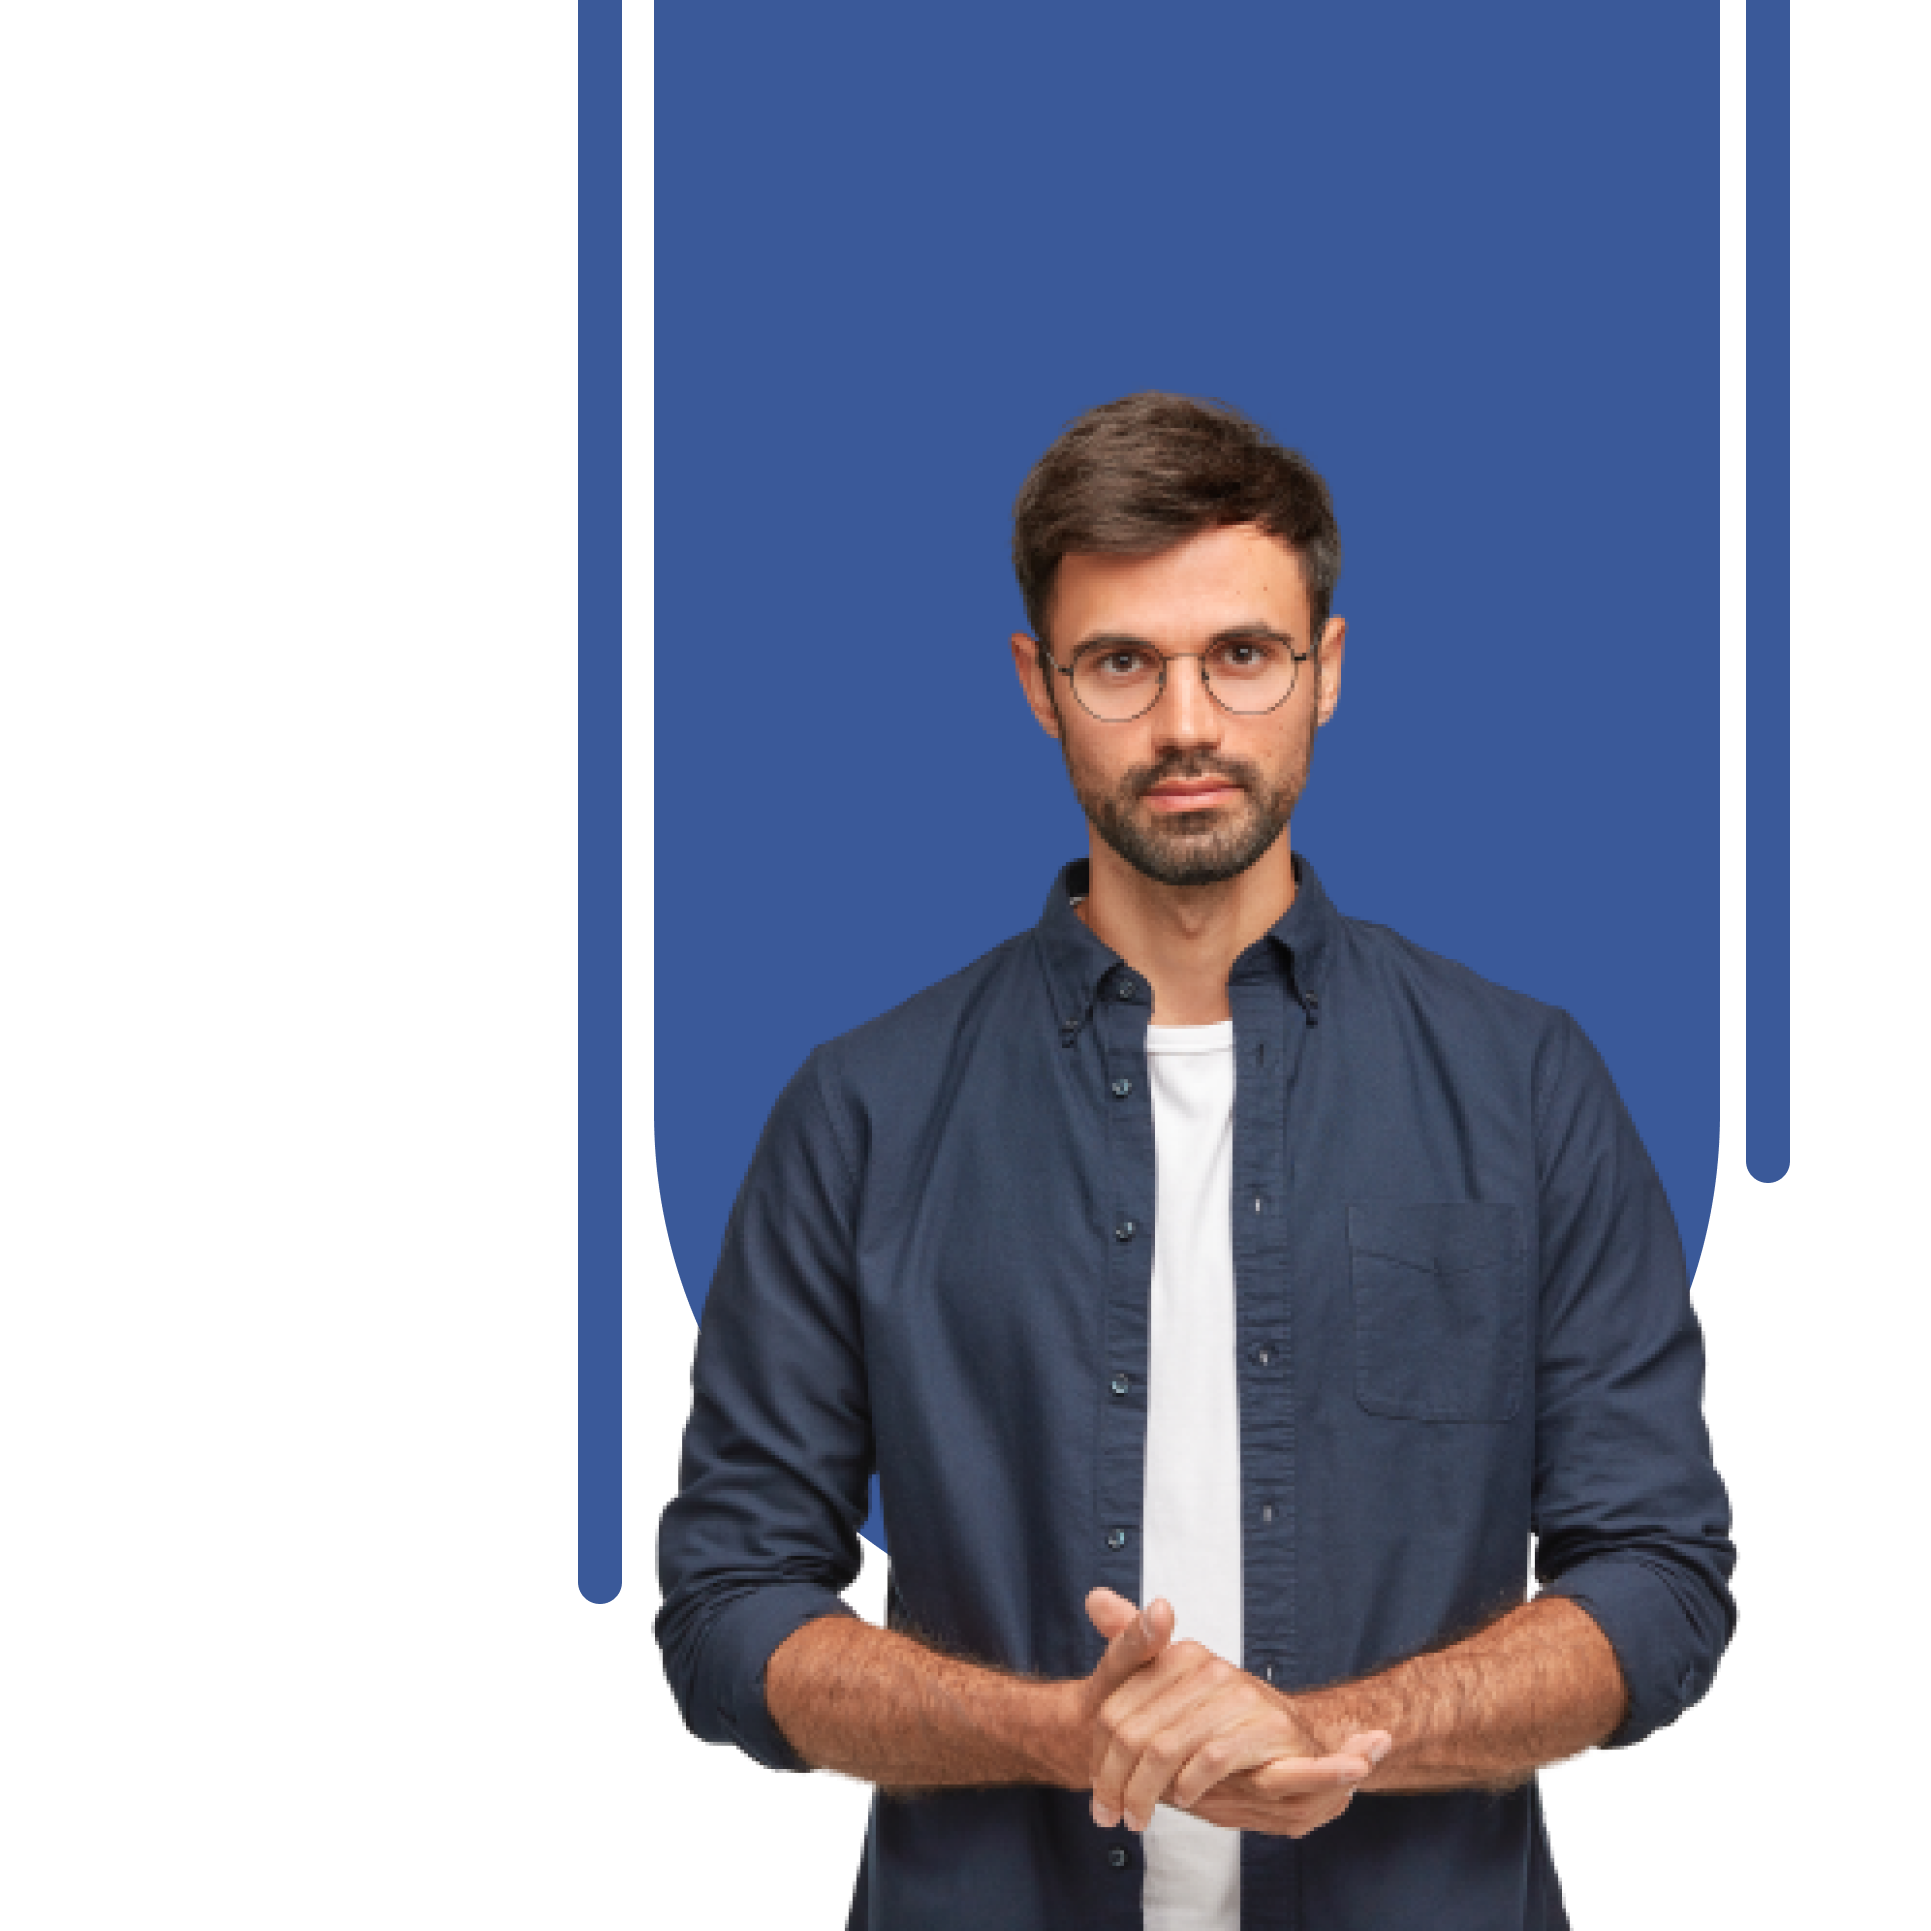
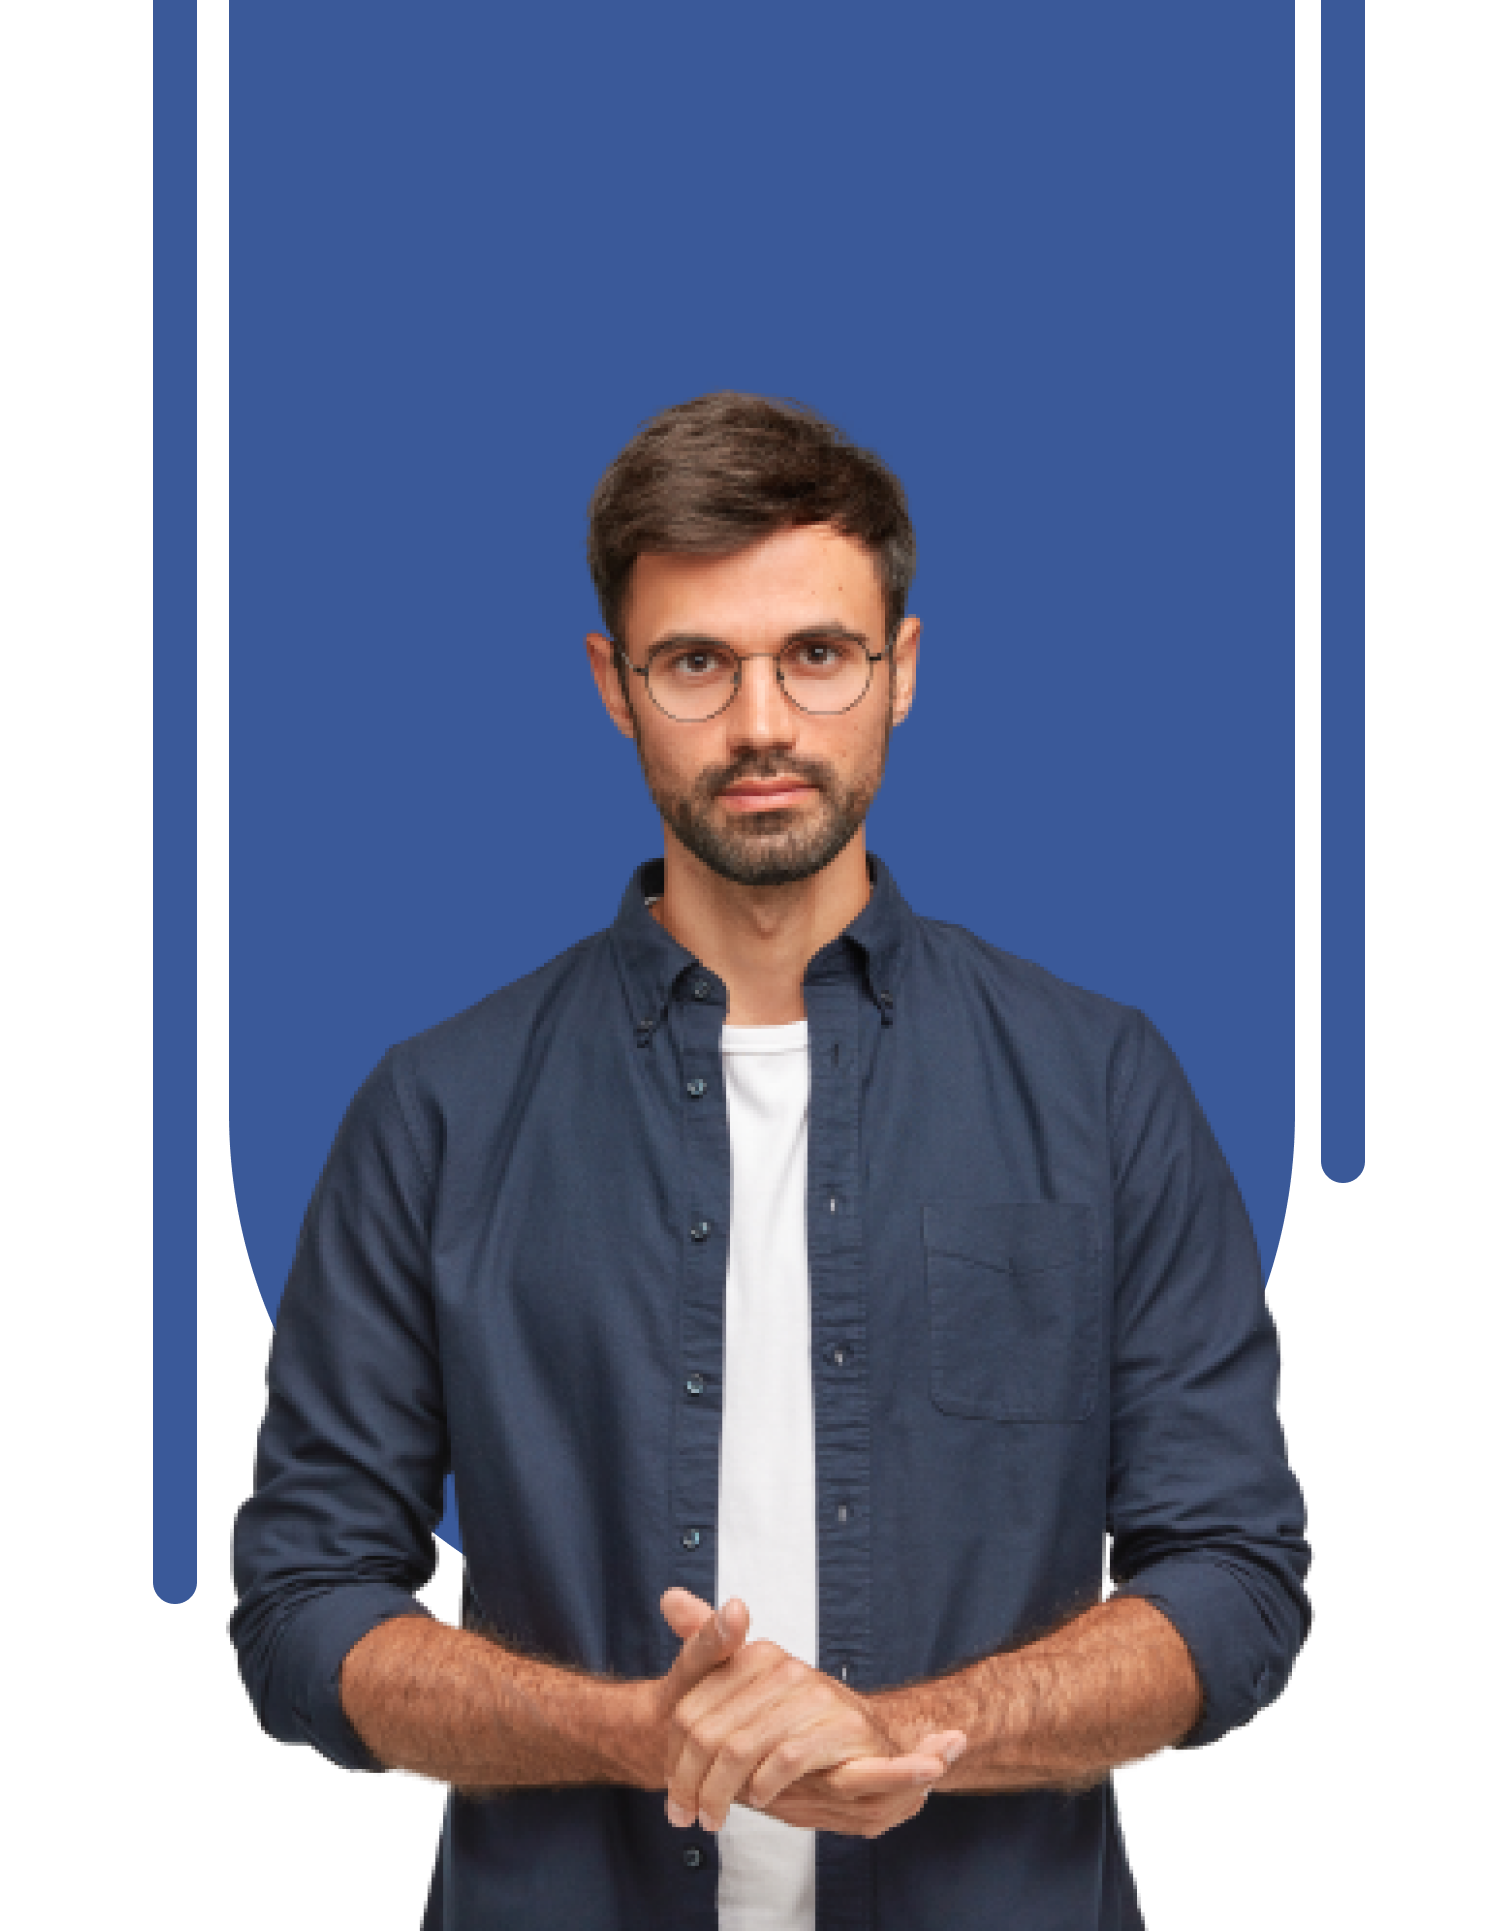
update sidebar dashboard + crop img landing page - update from laptop

diff --git a/dashboard-jadwal-pertanyaan.html b/dashboard-jadwal-pertanyaan.html
@@ -37,19 +37,19 @@
                         <ul class="nav nav-pills flex-column mb-sm-auto mb-0 align-items-center align-items-sm-start"
                             id="menu">
                             <li class="nav-item">
-                                <a href="dashboard.html" class="nav-link d-flex justify-content-center rounded-3 px-4 py-3"
-                                    style="background: #3A5999;">
+                                <a href="dashboard.html" class="nav-link d-flex justify-content-center rounded-3 py-3"
+                                    style="background: #3A5999; width: 180px;">
                                     <img src="assets/dashboard icon.png" alt="imgae" class="img-fluid me-2" width="20">
                                     <span class="text-white">Dashboard</span>
                                 </a>
                             </li>
                             <li class="my-2">
-                                <a href="dashboard-jadwal-pertanyaan.html" class="nav-link rounded-3 py-3" style="background: #3A5999;">
+                                <a href="dashboard-jadwal-pertanyaan.html" class="nav-link rounded-3 py-3 text-center" style="background: #3A5999; width: 180px;">
                                     <span class="text-white">Jadwal interview</span>
                                 </a>
                             </li>
                             <li>
-                                <a href="dashboard-list-pertanyaan.html" class="nav-link rounded-3 px-3 py-3" style="background: #3A5999;">
+                                <a href="dashboard-list-pertanyaan.html" class="nav-link rounded-3 py-3 text-center" style="background: #3A5999; width: 180px;">
                                     <span class="text-white">List pertanyaan</span>
                                 </a>
                             </li>

diff --git a/dashboard-list-pertanyaan.html b/dashboard-list-pertanyaan.html
@@ -37,19 +37,19 @@
                         <ul class="nav nav-pills flex-column mb-sm-auto mb-0 align-items-center align-items-sm-start"
                             id="menu">
                             <li class="nav-item">
-                                <a href="dashboard.html" class="nav-link d-flex justify-content-center rounded-3 px-4 py-3"
-                                    style="background: #3A5999;">
+                                <a href="dashboard.html" class="nav-link d-flex justify-content-center rounded-3 py-3"
+                                    style="background: #3A5999; width: 180px;">
                                     <img src="assets/dashboard icon.png" alt="imgae" class="img-fluid me-2" width="20">
                                     <span class="text-white">Dashboard</span>
                                 </a>
                             </li>
                             <li class="my-2">
-                                <a href="dashboard-jadwal-pertanyaan.html" class="nav-link rounded-3 py-3" style="background: #3A5999;">
+                                <a href="dashboard-jadwal-pertanyaan.html" class="nav-link rounded-3 py-3 text-center" style="background: #3A5999; width: 180px;">
                                     <span class="text-white">Jadwal interview</span>
                                 </a>
                             </li>
                             <li>
-                                <a href="dashboard-list-pertanyaan.html" class="nav-link rounded-3 px-3 py-3" style="background: #3A5999;">
+                                <a href="dashboard-list-pertanyaan.html" class="nav-link rounded-3 py-3 text-center" style="background: #3A5999; width: 180px;">
                                     <span class="text-white">List pertanyaan</span>
                                 </a>
                             </li>

diff --git a/dashboard.html b/dashboard.html
@@ -37,19 +37,19 @@
                         <ul class="nav nav-pills flex-column mb-sm-auto mb-0 align-items-center align-items-sm-start"
                             id="menu">
                             <li class="nav-item">
-                                <a href="dashboard.html" class="nav-link d-flex justify-content-center rounded-3 px-4 py-3"
-                                    style="background: #3A5999;">
+                                <a href="dashboard.html" class="nav-link d-flex justify-content-center rounded-3 py-3"
+                                    style="background: #3A5999; width: 180px;">
                                     <img src="assets/dashboard icon.png" alt="imgae" class="img-fluid me-2" width="20">
                                     <span class="text-white">Dashboard</span>
                                 </a>
                             </li>
                             <li class="my-2">
-                                <a href="dashboard-jadwal-pertanyaan.html" class="nav-link rounded-3 py-3" style="background: #3A5999;">
+                                <a href="dashboard-jadwal-pertanyaan.html" class="nav-link rounded-3 py-3 text-center" style="background: #3A5999; width: 180px;">
                                     <span class="text-white">Jadwal interview</span>
                                 </a>
                             </li>
                             <li>
-                                <a href="dashboard-list-pertanyaan.html" class="nav-link rounded-3 px-3 py-3" style="background: #3A5999;">
+                                <a href="dashboard-list-pertanyaan.html" class="nav-link rounded-3 py-3 text-center" style="background: #3A5999; width: 180px;">
                                     <span class="text-white">List pertanyaan</span>
                                 </a>
                             </li>

diff --git a/login.html b/login.html
@@ -35,12 +35,13 @@
                         <div class="row text-center mb-4">
                             <h3 class="fw-bold">Log in to lorem</h1>
                         </div>
-                        <form action="#" method="post">
+                        <form action="dashboard.html" method="post">
                             <div class="row text-center">
                                 <input type="email" placeholder="Enter email"
                                     class="form-control border border-2 rounded-4 px-4 py-3 mb-2 w-100" required>
-                                <input type="submit" value="Continue"
-                                    class="text-white border rounded-4 px-5 py-3 w-100" style="background: #1FCC26;">
+                                <a href="dashboard.html" class="text-white border rounded-4 px-5 py-3 w-100 text-decoration-none" style="background: #1FCC26;">Continue</a>
+                                <!-- <input type="submit" value="Continue"
+                                    class="text-white border rounded-4 px-5 py-3 w-100" style="background: #1FCC26;"> -->
                                 <p class="text-muted my-4">OR</p>
                             </div>
                         </form>

diff --git a/index.html b/index.html
@@ -57,11 +57,11 @@
                         with the release of Letraset sheets containing Lorem Ipsum passages, and more recently with
                         desktop
                         publishing software like Aldus PageMaker including versions of Lorem Ipsum.</p>
-                    <a href="#" class="text-white text-decoration-none rounded-5 px-5 py-3"
+                    <a href="register.html" class="text-white text-decoration-none rounded-5 px-5 py-3"
                         style="background: #1A2474;">Daftar sekarang</a>
                 </div>
             </div>
-            <div class="col-6 d-none d-md-flex vh-100 position-relative">
+            <div class="col-6 d-none d-md-flex vh-100 justify-content-center position-relative">
                 <img src="assets/Group 250.png" class="img-fluid">
             </div>
         </div>

diff --git a/index-sudah-login.html b/index-sudah-login.html
@@ -62,7 +62,7 @@
                         style="background: #1A2474;">Daftar sekarang</a>
                 </div>
             </div>
-            <div class="col-6 d-none d-md-flex vh-100 position-relative">
+            <div class="col-6 d-none d-md-flex vh-100 justify-content-center position-relative">
                 <img src="assets/Group 250.png" class="img-fluid">
             </div>
         </div>
